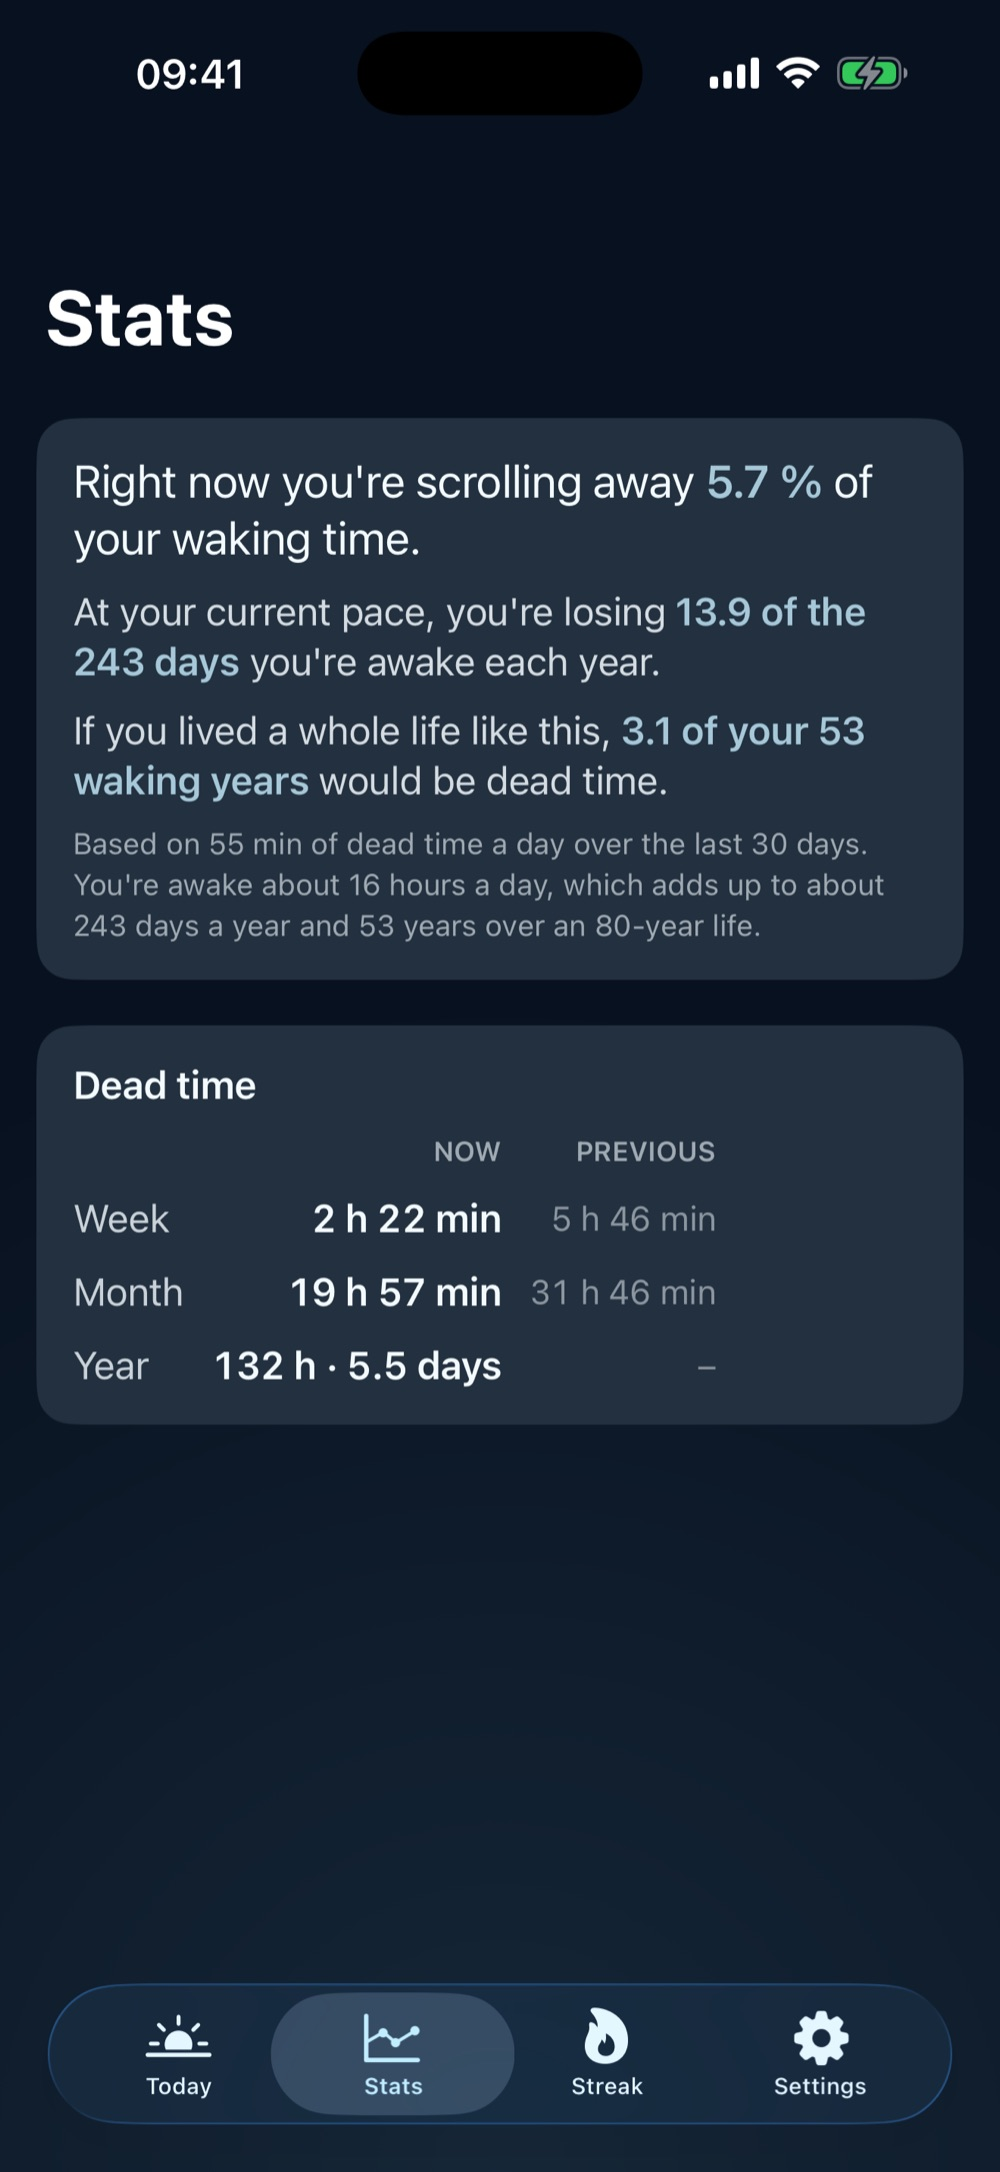
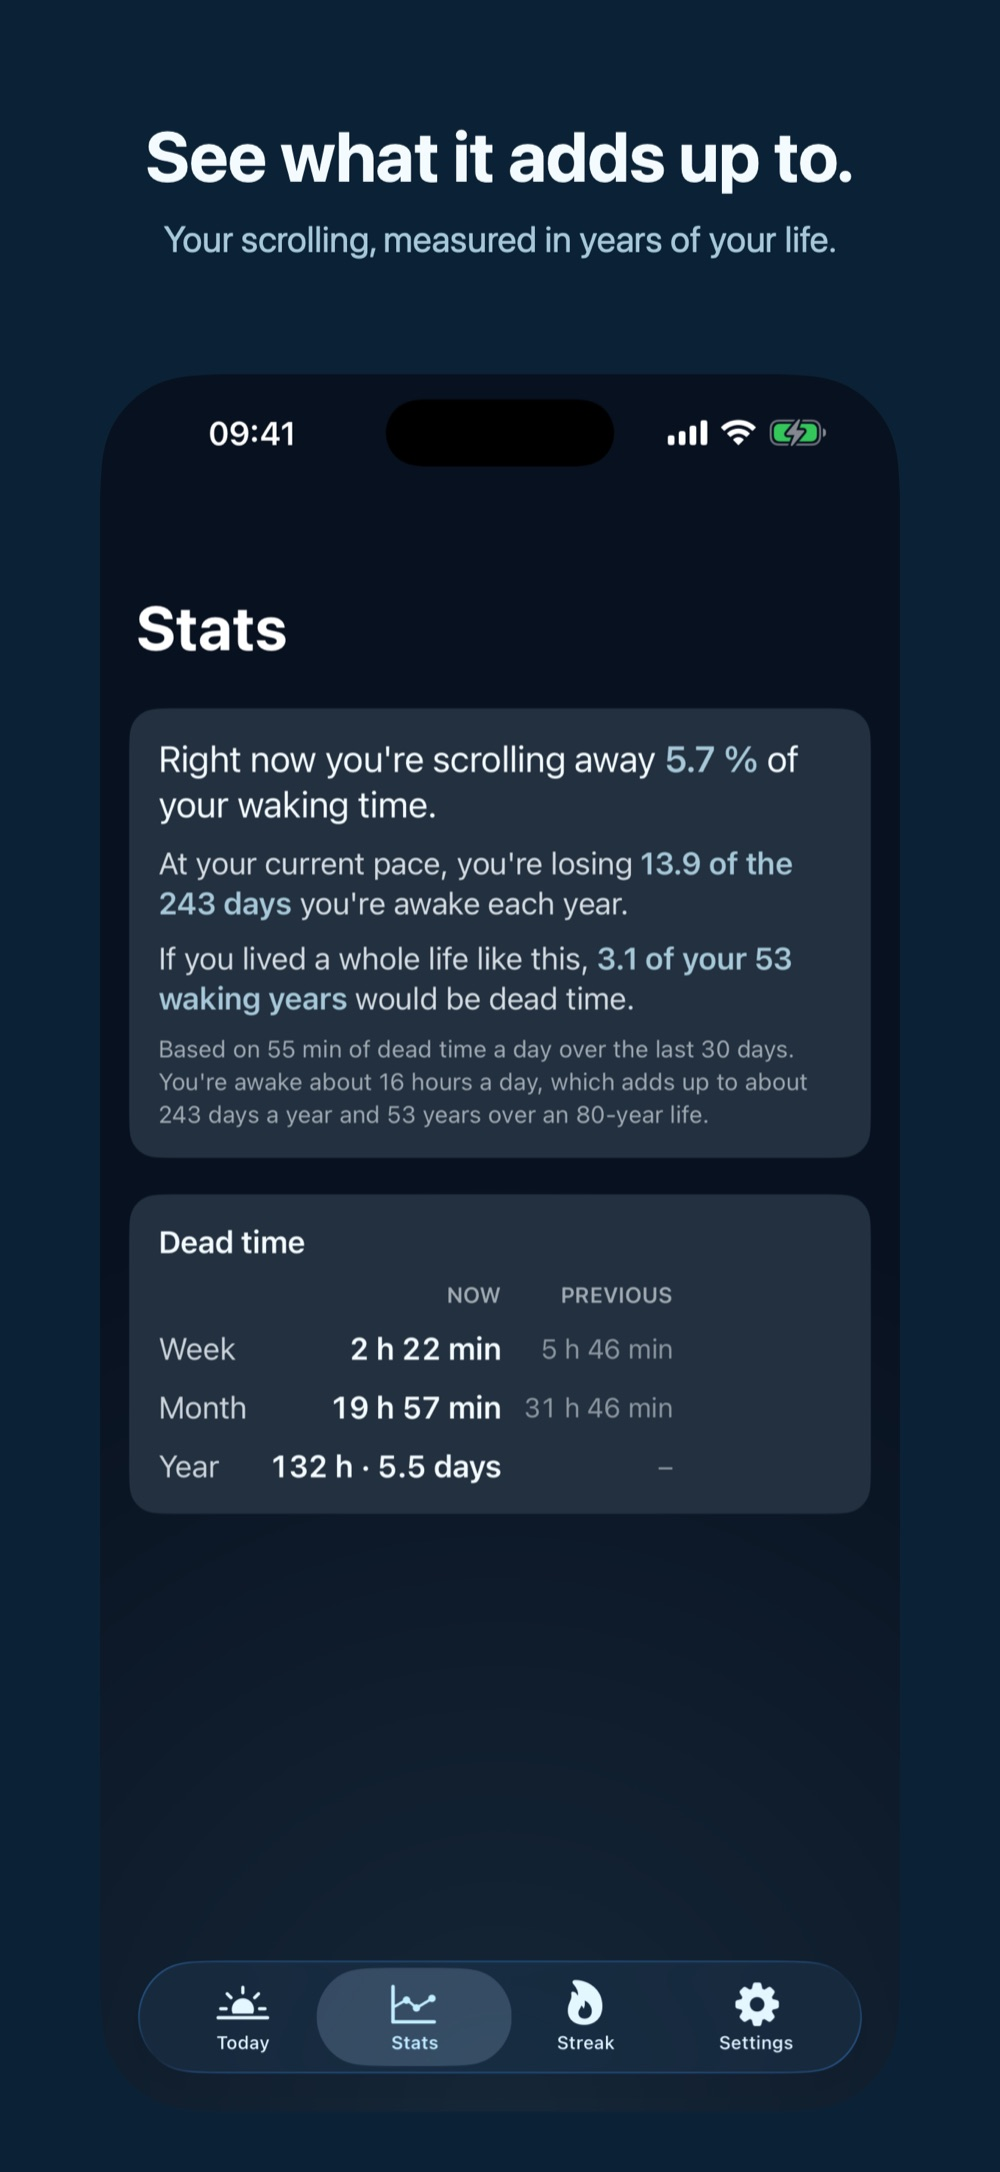
Show the App Store images and drop the widgets section

diff --git a/index.html b/index.html
@@ -61,52 +61,26 @@
         <div class="narrow">
           <h2>Inside</h2>
         </div>
-        <!-- Screenshots live in assets/screenshots/ (1000 × 2172 JPEG). To add one, add another <figure>. -->
+        <!-- Screenshots live in assets/screenshots/ (1000 × 2172 JPEG, the App Store images from
+             thumbstone-appstore-images/edited, heading included). To add one, add another <figure>. -->
         <div class="gallery" tabindex="0" aria-label="Screenshots">
           <figure>
-            <img src="assets/screenshots/1-typing-short.jpg" width="1000" height="2172" alt="The unlock screen for the first unlock of the day, ten words: “I have one life, and I am spending it here.” half typed above the keyboard.">
-            <figcaption>The first unlock: ten words.</figcaption>
+            <img src="assets/screenshots/1-typing-short.jpg" width="1000" height="2172" alt="Type to unlock. Your apps stay locked until you write it out. The unlock screen for the first unlock of the day, ten words: “I have one life, and I am spending it here.” half typed above the keyboard.">
           </figure>
           <figure>
-            <img src="assets/screenshots/2-typing-long.jpg" width="1000" height="2172" alt="The unlock screen for the ninth unlock of the day: a fifty word text, a quarter typed, about the feed being a giant machine run by thousands of clever people.">
-            <figcaption>The ninth: fifty.</figcaption>
+            <img src="assets/screenshots/2-typing-long.jpg" width="1000" height="2172" alt="Every unlock costs more. Ten words first. Fifty by the end of the day. The unlock screen for the ninth unlock of the day: a fifty word text, a quarter typed, about the feed being a giant machine run by thousands of clever people.">
           </figure>
           <figure>
-            <img src="assets/screenshots/3-graveyard.jpg" width="1000" height="2172" loading="lazy" alt="The streak screen: a 12-day streak, and a graveyard calendar for the month where days over the limit are marked with graves.">
-            <figcaption>Every day over your limit gets a grave.</figcaption>
+            <img src="assets/screenshots/3-graveyard.jpg" width="1000" height="2172" loading="lazy" alt="Every day over your limit gets a grave. Stay under it to keep your streak alive. The streak screen: a 12-day streak, and a graveyard calendar for the month where days over the limit are marked with graves.">
           </figure>
           <figure>
-            <img src="assets/screenshots/4-dashboard.jpg" width="1000" height="2172" loading="lazy" alt="The stats screen: dead time this week, month and year, and a bar chart of the last 30 days with a dashed line for the daily limit.">
-            <figcaption>Every minute, counted.</figcaption>
+            <img src="assets/screenshots/4-dashboard.jpg" width="1000" height="2172" loading="lazy" alt="Only the time that matters. Dead time counts just the apps you choose. The stats screen: dead time this week, month and year, and a bar chart of the last 30 days with a dashed line for the daily limit.">
           </figure>
           <figure>
-            <img src="assets/screenshots/5-lifetime.jpg" width="1000" height="2172" loading="lazy" alt="The stats screen: the share of waking time being scrolled away, and what it adds up to per year and over a whole life.">
-            <figcaption>What it adds up to.</figcaption>
-          </figure>
-        </div>
-      </section>
-
-      <section class="section">
-        <div class="narrow">
-          <h2>On your home screen</h2>
-          <p>Your dead time today, your streak and your graveyard, right where you can't avoid them. A quiet reminder every time you pick up your phone.</p>
-        </div>
-        <div class="gallery" tabindex="0" aria-label="Widget screenshots">
-          <figure>
-            <img src="assets/widgets/1-dead-time-today.jpg" width="1000" height="2172" loading="lazy" alt="An iPhone home screen with a small Thumbstone widget: 38 min of dead time out of a 1 h 30 min daily limit, shown as a ring, and 52 min left today.">
-            <figcaption>Dead time today, always in sight.</figcaption>
+            <img src="assets/screenshots/5-lifetime.jpg" width="1000" height="2172" loading="lazy" alt="See what it adds up to. Your scrolling, measured in years of your life. The stats screen: the share of waking time being scrolled away, and what it adds up to per year and over a whole life.">
           </figure>
           <figure>
-            <img src="assets/widgets/2-streak.jpg" width="1000" height="2172" loading="lazy" alt="An iPhone home screen with a small Thumbstone widget: a 12-day streak, and a longest streak of 23.">
-            <figcaption>Your streak, one glance away.</figcaption>
-          </figure>
-          <figure>
-            <img src="assets/widgets/3-graveyard.jpg" width="1000" height="2172" loading="lazy" alt="An iPhone home screen with a medium Thumbstone widget: a 12-day streak next to the month's graveyard, where days over the limit are marked with graves.">
-            <figcaption>Your graveyard, on your home screen.</figcaption>
-          </figure>
-          <figure>
-            <img src="assets/widgets/4-dashboard.jpg" width="1000" height="2172" loading="lazy" alt="An iPhone home screen with a medium Thumbstone widget: 38 min of dead time today, and a bar chart of the last 30 days with a dashed line for the daily limit.">
-            <figcaption>The last thirty days.</figcaption>
+            <img src="assets/screenshots/6-widgets.jpg" width="1000" height="2172" loading="lazy" alt="Always in sight. Your dead time and streak, right on your home screen. An iPhone home screen with four Thumbstone widgets: dead time today, the streak, the streak next to the month's graveyard, and the last 30 days of dead time.">
           </figure>
         </div>
       </section>

diff --git a/style.css b/style.css
@@ -139,7 +139,7 @@ footer {
   margin-top: 0;
 }
 
-/* Gallery: a horizontal row of phone screenshots, wider than the text column. Used for the app screenshots and the widgets. Add a <figure> to add an image. */
+/* Gallery: a horizontal row of phone screenshots, wider than the text column. Add a <figure> to add an image. */
 .gallery {
   --gallery-width: min(1100px, 100vw - 40px);
   width: var(--gallery-width);
